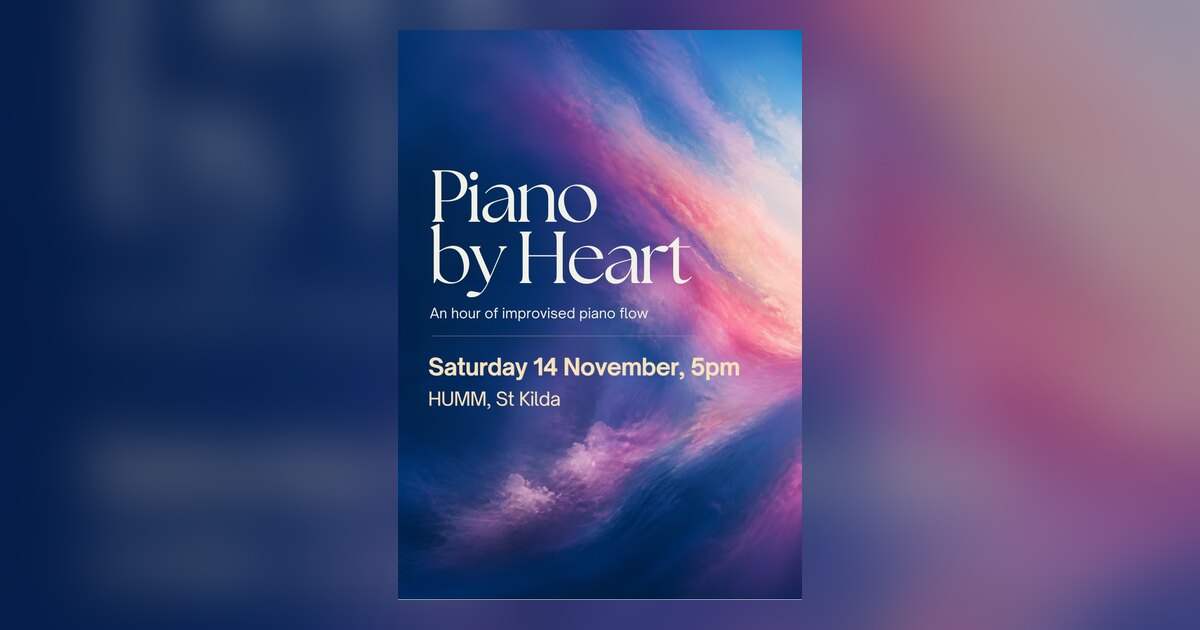
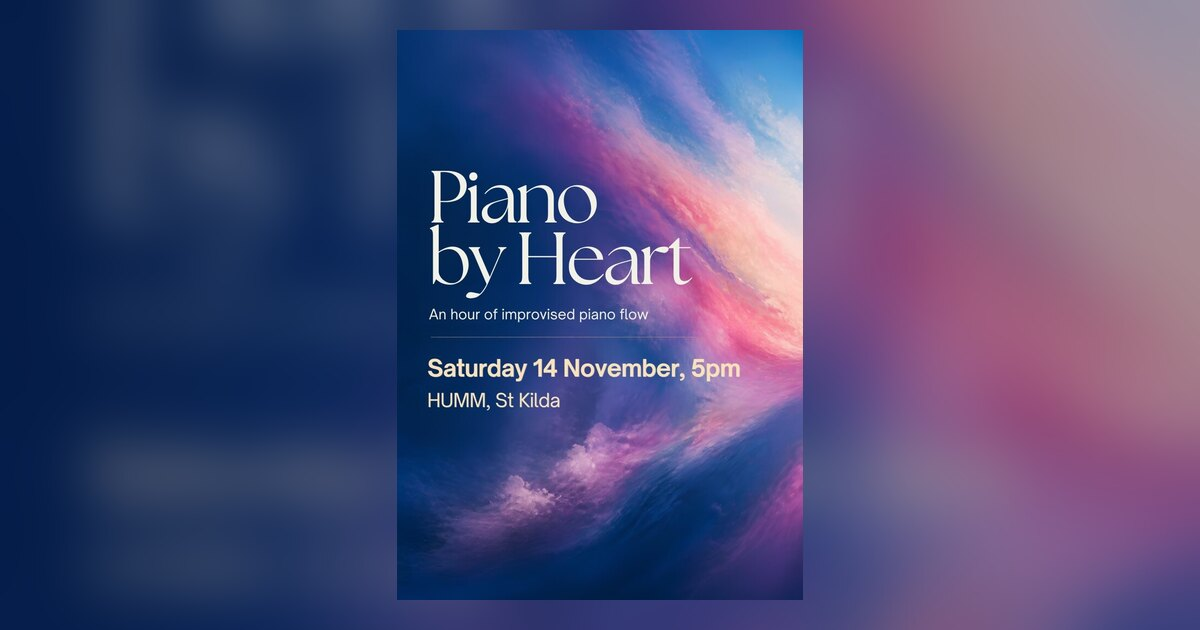
Piano by Heart: full-bleed artwork hero with live type
The hero is now the background artwork edge to edge, with the title,
subtitle, date and venue set as text over it (styled after the poster)
instead of the poster image with its baked-in date. The date line reads
from the event config. Hero blue darkened to #11153F.

Ships a placeholder background at public/piano-by-heart-bg.jpg until
the real text-free artwork is dropped in. The share card is rebuilt
from the poster with the white strip along its bottom edge trimmed.

Claude-Session: https://claude.ai/code/session_01QuGTtuHm98k6uNJBMXxLQy

Changed region(s): [[0.3392, 0.2714, 0.5858, 0.5429], [0.3392, 0.573, 0.6167, 0.6635], [0.4317, 0.754, 0.4625, 0.8143]]

diff --git a/src/pages/PianoByHeartPage.tsx b/src/pages/PianoByHeartPage.tsx
@@ -12,7 +12,7 @@ import { cn } from "@/lib/utils";
 import {
   getUpcomingEvening,
   pianoByHeartEventSchema,
-  pianoByHeartHero,
+  pianoByHeartArtwork,
   pianoByHeartLinks,
   venueAddress,
   type PianoByHeartEvening,
@@ -21,7 +21,7 @@ import {
 /* ---------------------------------------------------------------------------
  * Full-bleed colour bands taken from the event artwork, so the page reads as
  * one continuous piece rather than white with cards on it.
- *   indigo   #1C2260   hero (the artwork's deep blue)
+ *   indigo   #11153F   hero overlay (the artwork's deep blue)
  *   blush    #F6DCE6   intro, FAQ
  *   lavender #E3E0F4   the evening / good to know
  *   ink      brand-dark  next evening
@@ -31,7 +31,7 @@ import {
  * ------------------------------------------------------------------------- */
 
 const band = {
-  indigo: "bg-[#1C2260] text-brand-light",
+  indigo: "bg-[#11153F] text-brand-light",
   blush: "bg-[#F6DCE6] text-brand-dark [&_.eyebrow]:text-[hsl(325_72%_36%)]",
   lavender: "bg-[#E3E0F4] text-brand-dark [&_.eyebrow]:text-[hsl(325_72%_36%)]",
   ink: "bg-brand-dark text-brand-light",
@@ -103,43 +103,58 @@ const JumpLink = ({ children }: { children: React.ReactNode }) => (
 );
 
 const EventSchema = ({ evening }: { evening: PianoByHeartEvening }) => {
-  const schema = pianoByHeartEventSchema(evening, `${SITE_URL}/pianobyheart`, `${SITE_URL}${pianoByHeartHero.src}`);
+  const schema = pianoByHeartEventSchema(evening, `${SITE_URL}/pianobyheart`, `${SITE_URL}${pianoByHeartArtwork.src}`);
   return <script type="application/ld+json" dangerouslySetInnerHTML={{ __html: JSON.stringify(schema) }} />;
 };
 
+// Full-bleed artwork with the poster's type set live over it, so the date and
+// venue come from the config rather than being baked into an image.
 const Hero = ({ evening }: { evening: PianoByHeartEvening | null }) => (
-  <header className={cn(band.indigo, "relative overflow-hidden")}>
+  <header className={cn(band.indigo, "relative isolate overflow-hidden")}>
+    <DynamicImage
+      src={pianoByHeartArtwork.src}
+      alt={pianoByHeartArtwork.alt}
+      className="absolute inset-0 -z-20 h-full w-full object-cover object-[70%_center]"
+      width={2400}
+      height={1350}
+      priority
+    />
+    {/* Darkens the left side (and all of it on phones) so the type stays legible. */}
     <div
-      className="pointer-events-none absolute -right-32 top-10 h-96 w-96 rounded-full bg-brand-primary/30 blur-[120px]"
+      className="absolute inset-0 -z-10 bg-[#11153F]/60 lg:bg-transparent lg:bg-gradient-to-r lg:from-[#11153F]/90 lg:via-[#11153F]/50 lg:to-transparent"
       aria-hidden="true"
     />
-    <div className="container relative grid items-center gap-12 pb-20 pt-12 md:pt-16 lg:grid-cols-[1.1fr_1fr] lg:gap-20 lg:pb-28">
-      <div>
-        <p className={darkEyebrow}>Live improvised piano</p>
-        <h1 className="mt-5 text-[44px] leading-[1.02] sm:text-6xl lg:text-7xl font-light text-brand-light">Piano by Heart</h1>
-        <p className="mt-6 max-w-xl text-lg md:text-xl leading-relaxed text-brand-light/80">
+    <div className="container flex min-h-[min(88vh,820px)] flex-col justify-center py-24 lg:py-32">
+      <div className="max-w-xl">
+        <h1 className="text-[64px] leading-[0.95] sm:text-8xl lg:text-[120px] font-light tracking-[-0.01em] text-brand-light">
+          Piano
+          <br />
+          by Heart
+        </h1>
+        <p className="mt-6 text-lg md:text-xl leading-relaxed text-brand-light/90">
           An hour of improvised piano to rest, move and sound.
         </p>
-        <div className="mt-9 flex flex-wrap items-center gap-x-6 gap-y-4">
+        {evening && (
+          <>
+            <span className="mt-8 block h-px w-full max-w-sm bg-[#E9C98B]/50" aria-hidden="true" />
+            <p className="mt-6 text-sm font-medium uppercase tracking-[0.2em] text-[#E9C98B]">
+              {evening.date}
+              <span className="hidden sm:inline" aria-hidden="true"> · </span>
+              <br className="sm:hidden" />
+              {evening.venue.name}, {evening.venue.locality}
+            </p>
+          </>
+        )}
+        <div className="mt-10 flex flex-wrap items-center gap-x-6 gap-y-4">
           {evening ? (
             <>
               <BookingLink evening={evening} className={primaryButton} />
-              <JumpLink>{evening.date}</JumpLink>
+              <JumpLink>Details</JumpLink>
             </>
           ) : (
             <JumpLink>Next evening</JumpLink>
           )}
         </div>
-      </div>
-      <div className="mx-auto w-full max-w-md lg:mr-0">
-        <DynamicImage
-          src={pianoByHeartHero.src}
-          alt={pianoByHeartHero.alt}
-          className="aspect-[746/1052] w-full rounded-2xl object-cover shadow-lifted"
-          width={600}
-          height={846}
-          priority
-        />
       </div>
     </div>
   </header>

diff --git a/src/constants/piano-by-heart.ts b/src/constants/piano-by-heart.ts
@@ -60,8 +60,9 @@ export const pianoByHeartLinks = {
   enquiry: `mailto:info@danielebuatti.com?subject=${encodeURIComponent("Piano by Heart — next evening")}`,
 };
 
-export const pianoByHeartHero = {
-  src: "/piano-by-heart-hero.jpg",
+// Text-free background artwork for the hero (wide, about 2400x1350).
+export const pianoByHeartArtwork = {
+  src: "/piano-by-heart-bg.jpg",
   alt: "Piano by Heart — abstract indigo and pink artwork",
 };
 
